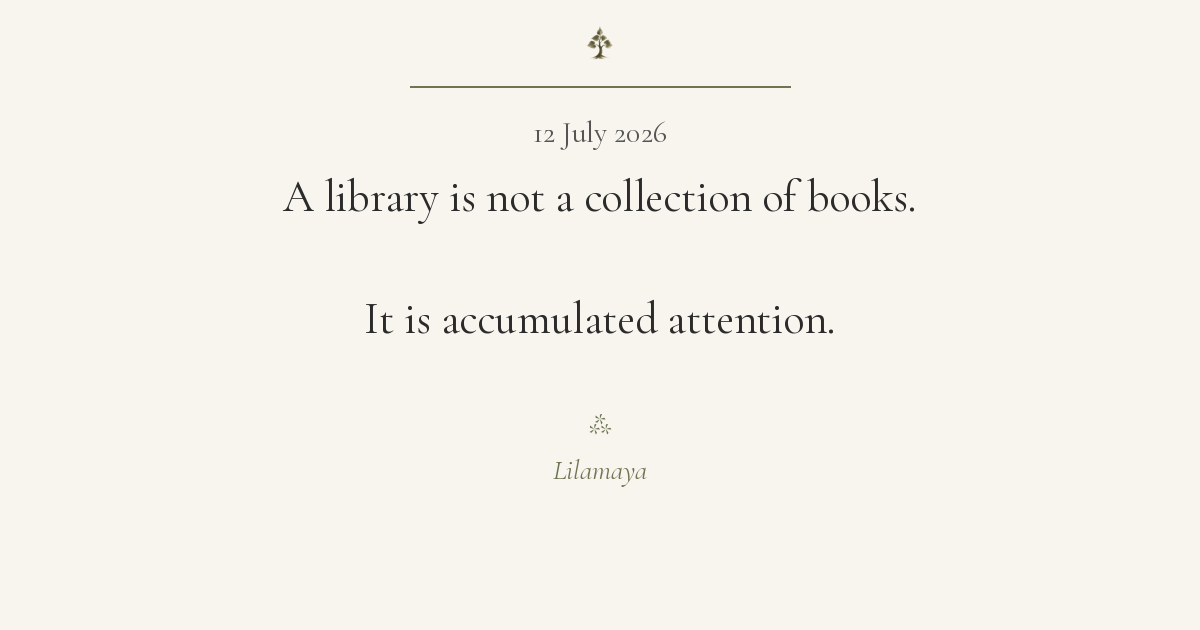
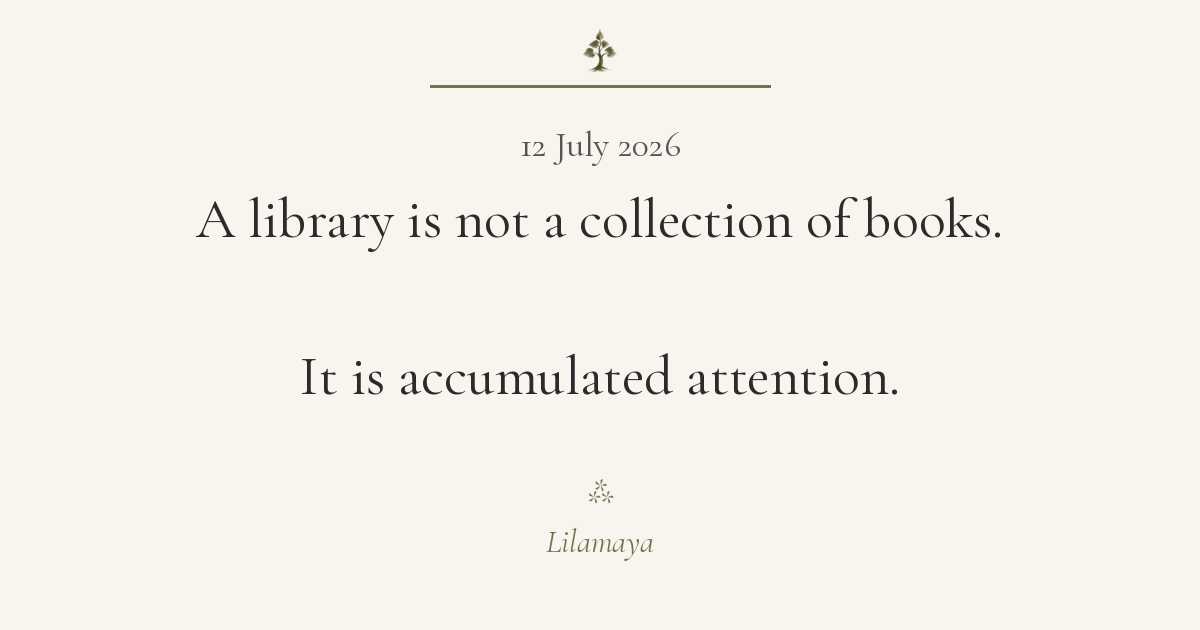
Another Version for Fragment Sharing

diff --git a/scripts/fragment_renderer.py b/scripts/fragment_renderer.py
@@ -1,124 +1,95 @@
-
+# fragment_renderer_v8.py
+# Social-feed optimized renderer
 from pathlib import Path
 import frontmatter, markdown
 from bs4 import BeautifulSoup
 from PIL import Image, ImageDraw, ImageFont
 
-PROJECT_ROOT = Path(__file__).resolve().parent.parent
-FRAGMENTS_DIR = PROJECT_ROOT / "content" / "fragments"
-OUTPUT_DIR = PROJECT_ROOT / "static" / "images" / "social" / "fragments"
-OUTPUT_DIR.mkdir(parents=True, exist_ok=True)
-
-WIDTH, HEIGHT = 1200, 630
-BACKGROUND = "#F8F5EF"
-
-FONT_DIR = PROJECT_ROOT / "assets" / "fonts"
-LOGO_PATH = PROJECT_ROOT / "static" / "images" / "tree-logo.png"
-
-DATE_SIZE = 30
-BODY_SIZE = 44
-SIG_SIZE = 28
-
-TREE_Y = 18
-DIVIDER_Y = 86
-DIVIDER_WIDTH = 380
-
-DATE_Y = 114
-BODY_Y = 170
-
-DATE_BODY_GAP = 42
-BODY_SIG_GAP = 42
-SIG_NAME_GAP = 18
-BOTTOM_MARGIN = 34
-MAX_WIDTH = 700
-
-LINE = "#6F7552"
-TEXT = "#2B2B2B"
-DATE = "#555555"
-
-def fonts(body_size):
+PROJECT_ROOT=Path(__file__).resolve().parent.parent
+FRAGMENTS_DIR=PROJECT_ROOT/"content"/"fragments"
+OUTPUT_DIR=PROJECT_ROOT/"static"/"images"/"social"/"fragments"
+OUTPUT_DIR.mkdir(parents=True,exist_ok=True)
+WIDTH,HEIGHT=1200,630
+BACKGROUND="#F8F5EF"
+FONT_DIR=PROJECT_ROOT/"assets"/"fonts"
+LOGO_PATH=PROJECT_ROOT/"static"/"images"/"tree-logo.png"
+DATE_SIZE=36
+BODY_START=56
+BODY_MIN=42
+SIG_SIZE=32
+TREE_Y=18
+DIVIDER_Y=86
+DIVIDER_WIDTH=340
+DIVIDER_THICKNESS=3
+DATE_Y=122
+BODY_Y=185
+BODY_SIG_GAP=36
+SIG_NAME_GAP=18
+BOTTOM_MARGIN=28
+MAX_WIDTH=820
+LINE="#6F7552";TEXT="#2B2B2B";DATE="#555555"
+def get_fonts(bs):
     return (
-        ImageFont.truetype(str(FONT_DIR/"CormorantGaramond-Regular.ttf"), DATE_SIZE),
-        ImageFont.truetype(str(FONT_DIR/"CormorantGaramond-Regular.ttf"), body_size),
-        ImageFont.truetype(str(FONT_DIR/"CormorantGaramond-Italic.ttf"), SIG_SIZE),
+        ImageFont.truetype(str(FONT_DIR/"CormorantGaramond-Regular.ttf"),DATE_SIZE),
+        ImageFont.truetype(str(FONT_DIR/"CormorantGaramond-Regular.ttf"),bs),
+        ImageFont.truetype(str(FONT_DIR/"CormorantGaramond-Italic.ttf"),SIG_SIZE)
     )
-
-def center(draw, txt, font, y, fill):
-    b = draw.textbbox((0,0), txt, font=font)
-    x = (WIDTH-(b[2]-b[0]))/2
-    draw.text((x,y), txt, font=font, fill=fill)
-
-def wrap(draw, text, font):
+def center(d,t,f,y,c):
+    b=d.textbbox((0,0),t,font=f)
+    d.text(((WIDTH-(b[2]-b[0]))/2,y),t,font=f,fill=c)
+def wrap(d,text,f):
     out=[]
     for para in text.split("\n"):
         if not para.strip():
-            out.append("")
-            continue
-        words=para.split()
+            out.append("");continue
         line=""
-        for w in words:
-            t=w if not line else line+" "+w
-            if draw.textbbox((0,0), t, font=font)[2] <= MAX_WIDTH:
-                line=t
+        for w in para.split():
+            trial=w if not line else line+" "+w
+            if d.textbbox((0,0),trial,font=f)[2]<=MAX_WIDTH:
+                line=trial
             else:
-                out.append(line)
-                line=w
-        if line:
-            out.append(line)
+                out.append(line);line=w
+        if line: out.append(line)
         out.append("")
     return out
-
 for md in sorted(FRAGMENTS_DIR.glob("*.md")):
-    if md.name.startswith("_"):
-        continue
-
+    if md.name.startswith("_"): continue
     post=frontmatter.load(md)
-    html=markdown.markdown(post.content)
-    text=BeautifulSoup(html,"html.parser").get_text("\n").strip()
-
-    body_size=BODY_SIZE
-
+    txt=BeautifulSoup(markdown.markdown(post.content),"html.parser").get_text("\n").strip()
+    bs=BODY_START
     while True:
-        date_font, body_font, sig_font = fonts(body_size)
+        df,bf,sf=get_fonts(bs)
         img=Image.new("RGB",(WIDTH,HEIGHT),BACKGROUND)
-        draw=ImageDraw.Draw(img)
-
-        lines=wrap(draw,text,body_font)
+        d=ImageDraw.Draw(img)
+        lines=wrap(d,txt,bf)
         y=BODY_Y
         for l in lines:
-            y += (draw.textbbox((0,0),l,font=body_font)[3]+14) if l else 18
-
-        sig_y=y+BODY_SIG_GAP
-        name_y=sig_y+draw.textbbox((0,0),"⁂",font=sig_font)[3]+SIG_NAME_GAP
-        end=name_y+draw.textbbox((0,0),"Lilamaya",font=sig_font)[3]
-
-        if end <= HEIGHT-BOTTOM_MARGIN or body_size<=34:
+            if l:
+                h=d.textbbox((0,0),l,font=bf)[3]+18
+            else:
+                h=24
+            y+=h
+        sh=d.textbbox((0,0),"⁂",font=sf)[3]
+        nh=d.textbbox((0,0),"Lilamaya",font=sf)[3]
+        if y+BODY_SIG_GAP+sh+SIG_NAME_GAP+nh<=HEIGHT-BOTTOM_MARGIN or bs<=BODY_MIN:
             break
-        body_size -= 2
-
+        bs-=2
     if LOGO_PATH.exists():
         logo=Image.open(LOGO_PATH).convert("RGBA")
-        logo.thumbnail((52,52))
+        logo.thumbnail((68,68))
         img.paste(logo,((WIDTH-logo.width)//2,TREE_Y),logo)
-
-    draw.line(((WIDTH-DIVIDER_WIDTH)//2,DIVIDER_Y,
-               (WIDTH+DIVIDER_WIDTH)//2,DIVIDER_Y),
-              fill=LINE,width=2)
-
-    center(draw,post["date"].strftime("%d %B %Y"),date_font,DATE_Y,DATE)
-
+    d.line(((WIDTH-DIVIDER_WIDTH)//2,DIVIDER_Y,(WIDTH+DIVIDER_WIDTH)//2,DIVIDER_Y),fill=LINE,width=DIVIDER_THICKNESS)
+    center(d,post["date"].strftime("%d %B %Y"),df,DATE_Y,DATE)
     y=BODY_Y
     for l in lines:
         if l:
-            center(draw,l,body_font,y,TEXT)
-            y += draw.textbbox((0,0),l,font=body_font)[3]+14
+            center(d,l,bf,y,TEXT)
+            y+=d.textbbox((0,0),l,font=bf)[3]+18
         else:
-            y += 18
-
-    y += BODY_SIG_GAP
-    center(draw,"⁂",sig_font,y,LINE)
-    y += draw.textbbox((0,0),"⁂",font=sig_font)[3]+SIG_NAME_GAP
-    center(draw,"Lilamaya",sig_font,y,LINE)
-
+            y+=24
+    y+=BODY_SIG_GAP
+    center(d,"⁂",sf,y,LINE)
+    y+=sh+SIG_NAME_GAP
+    center(d,"Lilamaya",sf,y,LINE)
     img.save(OUTPUT_DIR/f"{md.stem}.png")
     print("Rendered",md.stem)